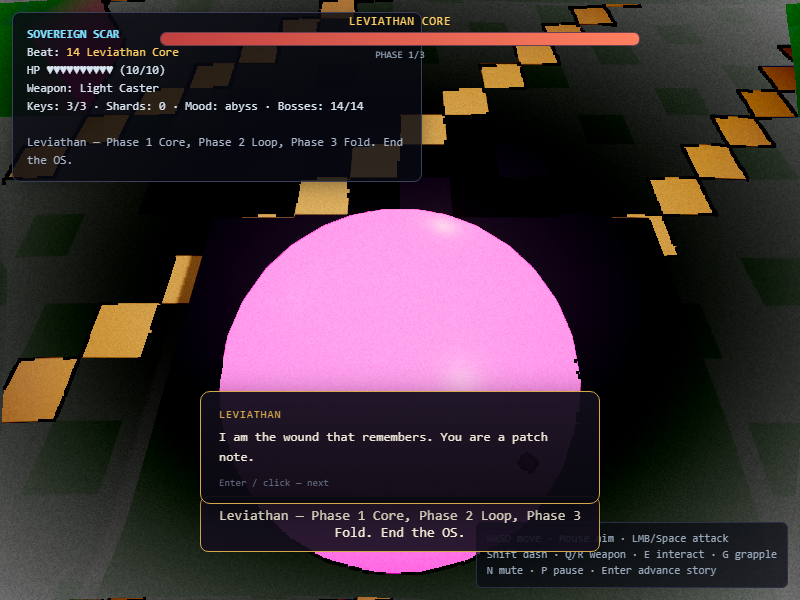
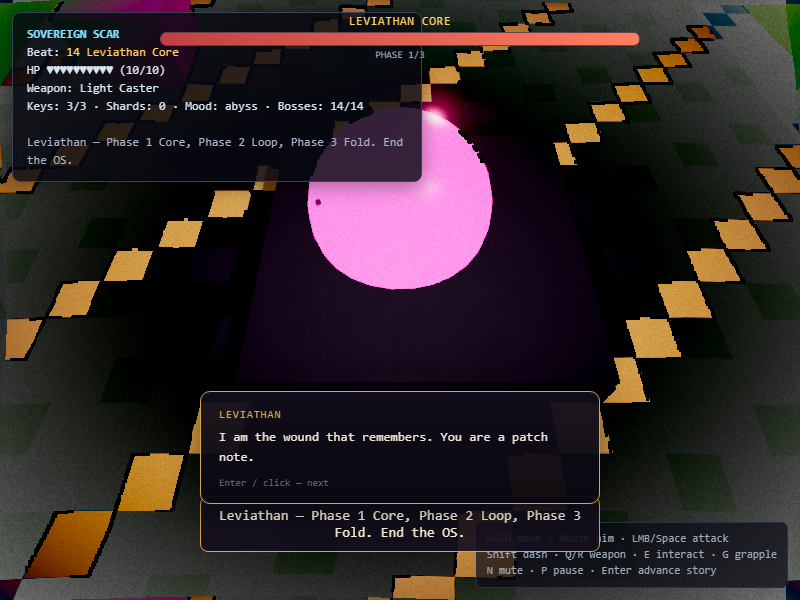
feat(W5): mirror travel - dual-state screens + monolith swap
Per-screen crust/abyss layout variants, monolith interact starts a
1.5s mood ramp then rebuilds the overworld in the other state at the
exact position, ring-search nudge when the new layout would trap the
player, free-swap via M for mirror_free/post-Proxy saves.

Suite 602/602.

diff --git a/src/game/overworld/overworld.js b/src/game/overworld/overworld.js
@@ -4,6 +4,7 @@
 
 import { createDungeon, doorCells } from '../world/room-graph.js';
 import { getOverworldState, patchOverworld, markScreenVisited } from '../world/keys.js';
+import { loadSovereignProgress } from '../kernel/progress.js';
 import { CRUST_COLORS, ABYSS_COLORS } from '../assets/palettes.js';
 import { fillBox } from '../../voxel/helpers.js';
 import { sfx } from '../../audio/synth.js';
@@ -17,7 +18,10 @@ export const SCREEN_HALF = 23; // 47×47 cells ≈ the plan's 48-unit screens
  *   screens: { 'r0c0': {
  *     grid: [sx, sy],
  *     edges: [{ to, side, at?, width? }],   // open border gaps
- *     build(map, h),                        // terrain, LOCAL coords
+ *     build(map, h),                        // shared terrain, LOCAL coords
+ *     crust: { build(map, h) },             // W5: crust-only layout
+ *     abyss: { build(map, h) },             // W5: abyss-only layout
+ *     monolith: { x, z },                   // W5: mirror-travel site
  *     entrances: [{ x, z, to, label }],     // dungeon doors (E to enter)
  *     spawn: { x, z },
  *   } }
@@ -53,10 +57,38 @@ export function createOverworld(ctx, screensDef, opts = {}) {
                     fillBox(map, en.x + 2, en.x + 2, 1, 4, en.z, en.z, CRUST_COLORS.goldLeaf);
                     fillBox(map, en.x - 2, en.x + 2, 4, 4, en.z, en.z, CRUST_COLORS.goldLeaf);
                 }
+                // W5: monolith — mirror-travel obelisk (violet shaft, gold cap)
+                if (s.monolith) {
+                    const m = s.monolith;
+                    fillBox(map, m.x, m.x, 1, 5, m.z, m.z, ABYSS_COLORS.violet);
+                    fillBox(map, m.x, m.x, 6, 6, m.z, m.z, ABYSS_COLORS.goldVein);
+                }
                 if (s.build) s.build(map, h);
+                // W5: state-specific layout on top of the shared terrain
+                const variant = mood === 'abyss' ? s.abyss : s.crust;
+                if (variant?.build) variant.build(map, h);
             },
             enemies: s.enemies || [],
         };
+    }
+
+    // W5: begin a mirror swap — persist the other state + exact position,
+    // ramp the mood, and reload the overworld once the ramp lands.
+    function startSwap(game, level) {
+        const sid = level.currentRoomId();
+        const room = rooms[sid];
+        const p = game.player.root.position;
+        const other = mood === 'crust' ? 'abyss' : 'crust';
+        patchOverworld({
+            state: other,
+            pos: { screen: sid, x: p.x - room.grid[0] * 64, z: p.z - room.grid[1] * 64 },
+        });
+        game.mood?.startRamp?.(other, 1.5);
+        game.hud?.toast?.(other === 'abyss'
+            ? 'The world folds into the Abyss…'
+            : 'The Crust reasserts itself…', 1800);
+        sfx.phase?.();
+        level._swapTimer = 1.5;
     }
 
     const def = {
@@ -67,13 +99,35 @@ export function createOverworld(ctx, screensDef, opts = {}) {
         banner: screensDef.banner || 'The Scarred Crust — find the wounds',
         rooms,
         onUpdate(dt, game, level) {
-            // Dungeon entrances: stand in the arch + interact
+            // W5: pending mirror swap — reload after the mood ramp lands
+            if (level._swapTimer != null) {
+                level._swapTimer -= dt;
+                if (level._swapTimer <= 0) {
+                    level._swapTimer = null;
+                    game.loadLevel?.('overworld');
+                }
+                return;
+            }
             const sid = level.currentRoomId();
             const s = screensDef.screens[sid];
-            if (!s || !s.entrances || level.isTransitioning()) return;
+            if (!s || level.isTransitioning()) return;
             const room = rooms[sid];
             const ox = room.grid[0] * 64, oz = room.grid[1] * 64;
             const p = game.player.root.position;
+
+            // W5: mirror travel — monolith interact (free-swap holders can
+            // trigger it anywhere outdoors via level.onMoodToggle, wired in
+            // index.js)
+            if (s.monolith) {
+                const md = Math.hypot(p.x - (ox + s.monolith.x), p.z - (oz + s.monolith.z));
+                if (md < 2.2 && game.input?.consumeInteract?.()) {
+                    startSwap(game, level);
+                    return;
+                }
+            }
+
+            // Dungeon entrances: stand in the arch + interact
+            if (!s.entrances) return;
             for (const en of s.entrances) {
                 const d = Math.hypot(p.x - (ox + en.x), p.z - (oz + en.z));
                 if (d < 1.6) {
@@ -106,6 +160,41 @@ export function createOverworld(ctx, screensDef, opts = {}) {
             z: room.grid[1] * 64 + saved.pos.z,
         };
     }
+
+    // W5: never trap the player — if the (possibly state-swapped) layout put
+    // a solid where they stand, nudge to the nearest free cell (ring search).
+    {
+        const blocked = (x, z) => level.getVoxelAt(x, 1.5, z);
+        if (blocked(level.spawn.x, level.spawn.z)) {
+            outer:
+            for (let r = 1; r <= 8; r++) {
+                for (let dx = -r; dx <= r; dx++) {
+                    for (let dz = -r; dz <= r; dz++) {
+                        if (Math.max(Math.abs(dx), Math.abs(dz)) !== r) continue;
+                        const nx = level.spawn.x + dx, nz = level.spawn.z + dz;
+                        if (!blocked(nx, nz) && level.getVoxelAt(nx, 0.5, nz)) {
+                            level.spawn = { x: nx, y: 1.95, z: nz };
+                            break outer;
+                        }
+                    }
+                }
+            }
+        }
+    }
+
+    // W5: mirror-free holders (Proxy defeated) can swap anywhere outdoors —
+    // index.js routes the M/mood toggle here first.
+    level.onMoodToggle = (game) => {
+        if (level._swapTimer != null || level.isTransitioning()) return true;
+        const freeSwap = game.player.inventory?.getFlag?.('mirror_free')
+            || (loadSovereignProgress().bossesDefeated || []).includes('proxy');
+        if (!freeSwap) {
+            game.hud?.toast?.('The mirror resists — find a monolith', 1500);
+            return true;
+        }
+        startSwap(game, level);
+        return true;
+    };
 
     // Save position on every screen transition (natural checkpoint) and
     // track visited screens for the map (W6).

diff --git a/src/game/overworld/screens.js b/src/game/overworld/screens.js
@@ -18,8 +18,21 @@ export const TEST_SCREENS = {
             entrances: [
                 { x: -8, z: -14, to: 'w-test-dungeon', label: 'Test Crypt' },
             ],
+            monolith: { x: 12, z: 12 },
             build(map, h) {
                 h.fillBox(map, 5, 8, 1, 2, -5, -3, CRUST_COLORS.slateDark);
+            },
+            // W5: divergent layouts — a rock blocks (−14..−12, 0..2) only in
+            // crust; the abyss grows a gold reef elsewhere instead.
+            crust: {
+                build(map, h) {
+                    h.fillBox(map, -14, -12, 1, 2, 0, 2, CRUST_COLORS.iron);
+                },
+            },
+            abyss: {
+                build(map, h) {
+                    h.fillBox(map, 14, 16, 1, 2, -10, -8, h.ABYSS_COLORS.goldVein);
+                },
             },
             enemies: [{ x: 6, z: 8, kind: 'sentinel', hp: 2 }],
         },

diff --git a/src/game/index.js b/src/game/index.js
@@ -581,8 +581,11 @@ function frame() {
         loadLevel(pid); // always allow backtracking
     }
     if (input.consumeMoodToggle()) {
+        // W5: the overworld can claim the toggle (mirror travel); otherwise
         // D7: mood flip is a dev tool, not a player verb
-        if (dev.enabled) {
+        if (game.level?.onMoodToggle?.(game)) {
+            // handled by the level
+        } else if (dev.enabled) {
             mood.toggle();
             hud.toast(`Mood: ${mood.mood}`);
         }